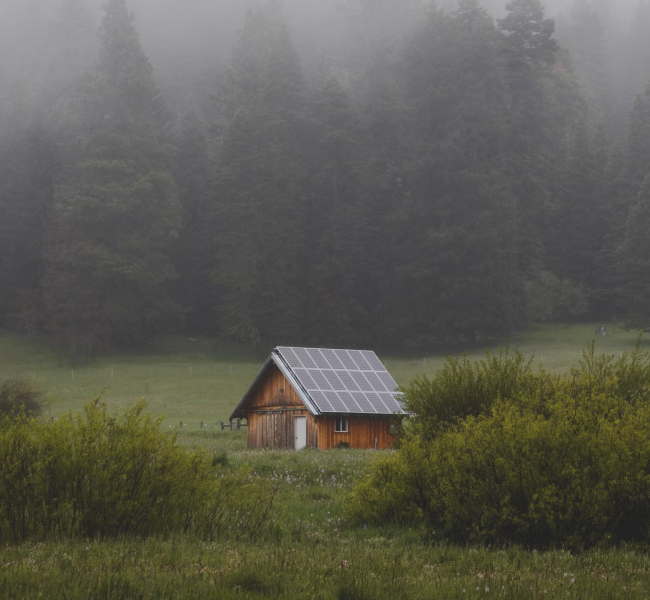
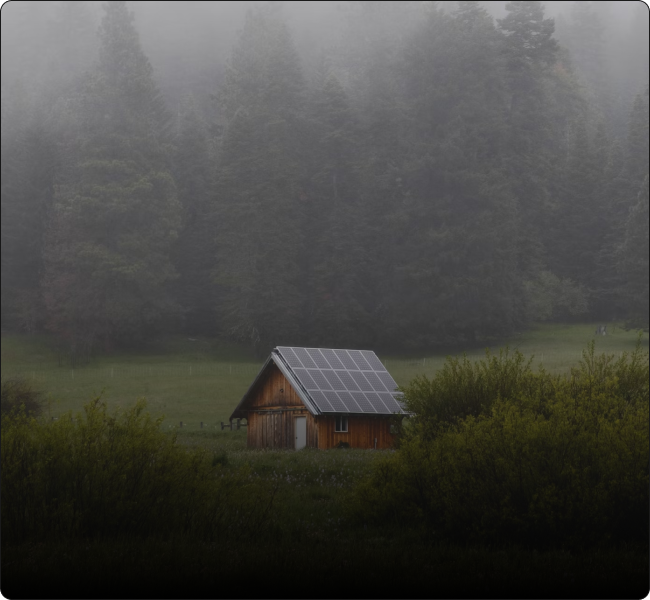
updated comet bento

diff --git a/src/app/[locale]/products/[id]/constants.ts b/src/app/[locale]/products/[id]/constants.ts
@@ -474,47 +474,52 @@ export const PRODUCT_BENTOBOXES: ProductBentofoxes = {
     ],
   },
   Comet: {
-    areaTemplate: `md:[grid-template-areas:"a_a_b_b""a_a_c_d""e_e_f_f""e_e_f_f"] [grid-template-areas:"a_a""b_b""c_d""e_e""f_f"]`,
+    areaTemplate: `md:[grid-template-areas:"a_b_d_d""c_c_d_d""e_e_f_f""e_e_g_g"] [grid-template-areas:"a_b""c_c""d_d""e_e""f_f""g_g"]`,
     structure: [
       {
-        type: "full",
-        imageUrl: "url('/images/products/bentobox/sand.png')",
-        shortDescription: "Suitable for Extreme Conditions",
+        type: "warranty",
         gridArea: "a",
-      },
-      {
-        type: "half",
-        imageUrl: "url('/images/products/bentobox/frame.png')",
-        shortDescription: `Different
-        Frame Colors`,
-        gridArea: "b",
       },
       {
         type: "quarter",
         imageUrl: "/images/products/bentobox/weather.svg",
         shortDescription: "Suitable for Extreme Conditions",
+        gridArea: "b",
+      },
+      {
+        type: "half",
+        imageUrl: "url('/images/products/bentobox/frame.png')",
+        shortDescription: `Color Diversity:
+        Wide range of choices `,
         gridArea: "c",
       },
       {
-        type: "warranty",
+        type: "full",
+        imageUrl: "url('/images/products/bentobox/cells.png')",
+        shortDescription: `n-Type Heterojunction:
+        Advanced solar technology`,
         gridArea: "d",
       },
       {
         type: "full",
-        imageUrl: "url('/images/products/bentobox/material.png')",
-        longDescription: {
-          title: `Tailored Material 
-              and Power`,
-          description:
-            "Find the perfect color combination to complement your content with interchangeable backdrops and frames.",
-        },
+        imageUrl: "url('/images/products/bentobox/snow.png')",
+        shortDescription: `Extreme Climate Suitability:
+        Designed for harsh environments`,
         gridArea: "e",
       },
       {
-        type: "full",
-        imageUrl: "url('/images/products/bentobox/sand.png')",
-        shortDescription: "Suitable for Extreme Conditions",
+        type: "half",
+        imageUrl: "url('/images/products/bentobox/lowLight.png')",
+        shortDescription: `Low-Light Performance:
+        High output in dim conditions`,
         gridArea: "f",
+      },
+      {
+        type: "half",
+        imageUrl: "url('/images/products/bentobox/frame.png')",
+        shortDescription: `Temperature Stability:
+        Very low coefficient`,
+        gridArea: "g",
       },
     ],
   },
@@ -546,7 +551,7 @@ export const PRODUCT_BENTOBOXES: ProductBentofoxes = {
       {
         type: "quarter",
         imageUrl: "/images/products/bentobox/weather.svg",
-        shortDescription: "Suitable for Extreme Conditions",
+        shortDescription: "Ideal for varied weather conditions",
         gridArea: "d",
       },
       {
